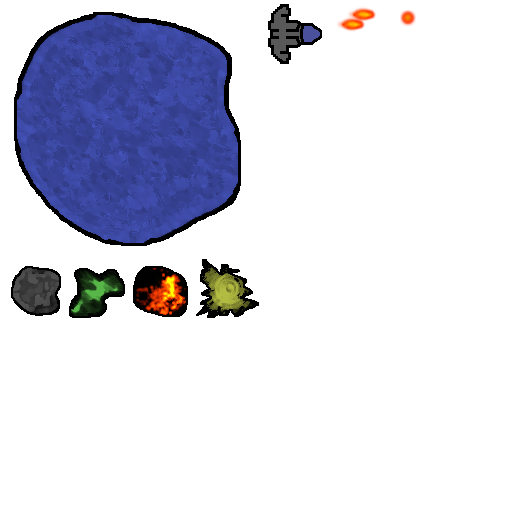
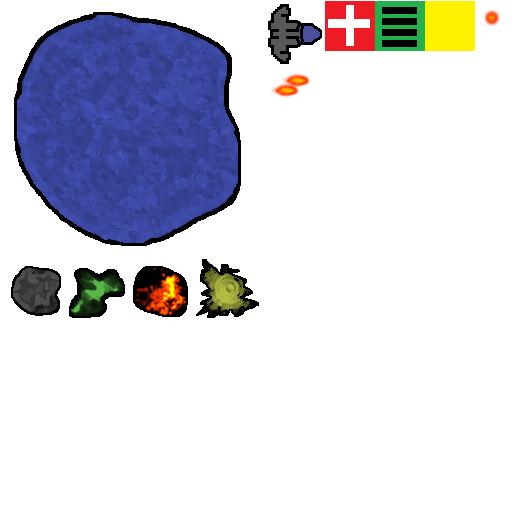
Задание в общем и целом выполнено. Из нововведений: новый контроллер, и несколько классов, определяющих бонусы. Шанс в тестировочных целях выставлен большой.

Changed region(s): [[0.625, 0.0, 1.0, 0.125], [0.5312, 0.125, 0.625, 0.1875]]

diff --git a/core/src/com/geekbrains/app/game/controllers/GameController.java b/core/src/com/geekbrains/app/game/controllers/GameController.java
@@ -1,16 +1,21 @@
-package com.geekbrains.app.game;
+package com.geekbrains.app.game.controllers;
 
 import com.badlogic.gdx.Gdx;
 import com.badlogic.gdx.Input;
 import com.badlogic.gdx.math.MathUtils;
 import com.badlogic.gdx.math.Vector2;
 import com.geekbrains.app.GameOptions;
+import com.geekbrains.app.game.Asteroid;
+import com.geekbrains.app.game.Background;
+import com.geekbrains.app.game.Bullet;
+import com.geekbrains.app.game.Hero;
 
 public class GameController {
     private Background background;
     private AsteroidController asteroidController;
     private BulletController bulletController;
     private ParticleController particleController;
+    private BonusController bonusController;
     private Hero hero;
     private Vector2 tmpVec;
 
@@ -20,6 +25,10 @@ public class GameController {
 
     public BulletController getBulletController() {
         return bulletController;
+    }
+
+    public BonusController getBonusController() {
+        return bonusController;
     }
 
     public Background getBackground() {
@@ -40,11 +49,13 @@ public class GameController {
         this.asteroidController = new AsteroidController(this);
         this.bulletController = new BulletController(this);
         particleController = new ParticleController();
+        this.bonusController = new BonusController(this);
         this.tmpVec = new Vector2(0.0f, 0.0f);
         for (int i = 0; i < GameOptions.COUNT_ASTEROIDS; i++) {
             this.asteroidController.setup(MathUtils.random(0, GameOptions.SCREEN_WIDTH), MathUtils.random(0, GameOptions.SCREEN_HEIGHT),
                     MathUtils.random(-150.0f, 150.0f), MathUtils.random(-150.0f, 150.0f), 1.0f);
         }
+
     }
 
     public void update(float dt) {
@@ -53,6 +64,7 @@ public class GameController {
         asteroidController.update(dt);
         bulletController.update(dt);
         particleController.update(dt);
+        bonusController.update(dt);
         checkCollisions();
 
         if (Gdx.input.isKeyJustPressed(Input.Keys.ESCAPE)) {

diff --git a/core/src/com/geekbrains/app/game/Hero.java b/core/src/com/geekbrains/app/game/Hero.java
@@ -11,6 +11,7 @@ import com.badlogic.gdx.math.Vector2;
 import com.badlogic.gdx.math.Vector3;
 import com.badlogic.gdx.utils.StringBuilder;
 import com.geekbrains.app.GameOptions;
+import com.geekbrains.app.game.controllers.GameController;
 import com.geekbrains.app.screen.utils.Assets;
 
 import java.util.ArrayList;
@@ -29,6 +30,22 @@ public class Hero {
     private int scoreView;
     private Circle hitArea;
     private Weapon currentWeapon;
+    //создана переменная для расчёта денег
+    private int money;
+
+    //добавляем возможность увеличить уровень хп аптечкой
+    public void setHp(int value) {
+        this.hp += value;
+    }
+
+    //добавляем сеттер и геттер для изменения количества money
+    public void setMoney(int value) {
+        this.money += value;
+    }
+
+    public int getMoney() {
+        return money;
+    }
 
     public float getAngle() {
         return angle;
@@ -84,6 +101,10 @@ public class Hero {
         );
     }
 
+    public Weapon getCurrentWeapon() {
+        return currentWeapon;
+    }
+
     public void render(SpriteBatch batch) {
         batch.draw(texture, position.x - 32, position.y - 32, 32, 32, 64, 64, 1, 1, angle);
     }
@@ -93,6 +114,7 @@ public class Hero {
         strBuilder.append("SCORE: ").append(scoreView).append("\n");
         strBuilder.append("HP: ").append(hp).append("\n");
         strBuilder.append("BULLETS: ").append(currentWeapon.getCurBullets()).append(" / ").append(currentWeapon.getMaxBullets()).append("\n");
+        strBuilder.append("MONEY: ").append(money);
         font.draw(batch, strBuilder, 20, 700);
     }
 

diff --git a/core/src/com/geekbrains/app/game/bonus/AbstractBonus.java b/core/src/com/geekbrains/app/game/bonus/AbstractBonus.java
@@ -1,0 +1,51 @@
+package com.geekbrains.app.game.bonus;
+
+import com.badlogic.gdx.graphics.g2d.SpriteBatch;
+import com.badlogic.gdx.graphics.g2d.TextureRegion;
+import com.badlogic.gdx.math.Circle;
+import com.badlogic.gdx.math.Vector2;
+import com.geekbrains.app.GameOptions;
+import com.geekbrains.app.game.controllers.GameController;
+
+public abstract class AbstractBonus {
+    protected Vector2 position;
+    protected Circle bonusArea;
+    protected TextureRegion texture;
+    protected int bonus;
+    protected String nameBonus;
+    protected boolean active;
+    protected GameController gc;
+
+    abstract void getBonus();
+
+    public boolean isActive() {
+        return active;
+    }
+    public void getActiveChance(Vector2 positionAsteroid){
+        this.position = positionAsteroid;
+        this.active = true;
+    }
+
+    public void deActive(){
+        this.active = false;
+    }
+
+    public void render(SpriteBatch batch){
+        if (active)
+        batch.draw(texture, position.x - 24, position.y - 24, 24, 48);
+    }
+
+    public void update(float dt){
+        if (active){
+            position.y += 10 * dt;
+            if (position.y > GameOptions.SCREEN_WIDTH) {
+                deActive();
+            }
+            bonusArea.setPosition(position);
+            if (bonusArea.overlaps(gc.getHero().getHitArea())){
+                getBonus();
+                deActive();
+            }
+        }
+    }
+}

diff --git a/core/src/com/geekbrains/app/game/controllers/BonusController.java b/core/src/com/geekbrains/app/game/controllers/BonusController.java
@@ -1,0 +1,43 @@
+package com.geekbrains.app.game.controllers;
+
+import com.badlogic.gdx.graphics.g2d.SpriteBatch;
+import com.badlogic.gdx.math.MathUtils;
+import com.badlogic.gdx.math.Vector2;
+import com.geekbrains.app.game.bonus.AbstractBonus;
+import com.geekbrains.app.game.bonus.ChestBonus;
+import com.geekbrains.app.game.bonus.GunsBonus;
+import com.geekbrains.app.game.bonus.MoneyBonus;
+
+import java.util.ArrayList;
+import java.util.List;
+
+public class BonusController {
+    private List<AbstractBonus> bonusList = new ArrayList<>();
+    private MoneyBonus money;
+    private ChestBonus chest;
+    private GunsBonus guns;
+    private int localValue;
+
+    BonusController(GameController gc){
+        bonusList.add(new MoneyBonus(gc));
+        bonusList.add(new ChestBonus(gc));
+        bonusList.add(new GunsBonus(gc));
+        this.localValue = 0;
+    }
+
+    public void getChance(Vector2 positionAsteroid){
+        localValue = MathUtils.random(3);
+        bonusList.get(localValue).getActiveChance(positionAsteroid);
+    }
+
+    public void render(SpriteBatch batch){
+        for (int i = 0; i < bonusList.size(); i++) {
+            bonusList.get(i).render(batch);
+        }
+    }
+    public void update(float dt){
+        for (int i = 0; i < bonusList.size(); i++) {
+            bonusList.get(i).update(dt);
+        }
+    }
+}

diff --git a/core/src/com/geekbrains/app/game/bonus/MoneyBonus.java b/core/src/com/geekbrains/app/game/bonus/MoneyBonus.java
@@ -1,0 +1,28 @@
+package com.geekbrains.app.game.bonus;
+
+import com.badlogic.gdx.graphics.g2d.SpriteBatch;
+import com.badlogic.gdx.math.Circle;
+import com.badlogic.gdx.math.Vector2;
+import com.geekbrains.app.GameOptions;
+import com.geekbrains.app.game.controllers.GameController;
+import com.geekbrains.app.screen.utils.Assets;
+
+public class MoneyBonus extends AbstractBonus {
+
+    public MoneyBonus(GameController gc) {
+        this.position = new Vector2(0, 0);
+        this.texture = Assets.getInstance().getAtlas().findRegion("money");
+        this.bonusArea = new Circle(position, 24);
+        this.nameBonus = "money";
+        this.active = false;
+        this.gc = gc;
+        this.bonus = GameOptions.BONUS_VALUE;
+    }
+
+    @Override
+    void getBonus() {
+        gc.getHero().setMoney(bonus);
+    }
+
+
+}

diff --git a/core/src/com/geekbrains/app/game/bonus/GunsBonus.java b/core/src/com/geekbrains/app/game/bonus/GunsBonus.java
@@ -1,0 +1,24 @@
+package com.geekbrains.app.game.bonus;
+
+import com.badlogic.gdx.math.Circle;
+import com.badlogic.gdx.math.Vector2;
+import com.geekbrains.app.GameOptions;
+import com.geekbrains.app.game.controllers.GameController;
+import com.geekbrains.app.screen.utils.Assets;
+
+public class GunsBonus extends AbstractBonus{
+    public GunsBonus(GameController gc) {
+        this.position = new Vector2(0, 0);
+        this.texture = Assets.getInstance().getAtlas().findRegion("guns");
+        this.bonusArea = new Circle(position, 24);
+        this.nameBonus = "guns";
+        this.active = false;
+        this.gc = gc;
+        this.bonus = GameOptions.BONUS_VALUE;
+    }
+
+    @Override
+    void getBonus() {
+        gc.getHero().getCurrentWeapon().setMaxBullets(bonus);
+    }
+}

diff --git a/core/src/com/geekbrains/app/game/bonus/ChestBonus.java b/core/src/com/geekbrains/app/game/bonus/ChestBonus.java
@@ -1,0 +1,24 @@
+package com.geekbrains.app.game.bonus;
+
+import com.badlogic.gdx.math.Circle;
+import com.badlogic.gdx.math.Vector2;
+import com.geekbrains.app.GameOptions;
+import com.geekbrains.app.game.controllers.GameController;
+import com.geekbrains.app.screen.utils.Assets;
+
+public class ChestBonus extends AbstractBonus{
+
+    public ChestBonus(GameController gc) {
+        this.position = new Vector2(0, 0);
+        this.texture = Assets.getInstance().getAtlas().findRegion("chest");
+        this.bonusArea = new Circle(position, 24);
+        this.nameBonus = "chest";
+        this.active = false;
+        this.gc = gc;
+        this.bonus = GameOptions.BONUS_VALUE;
+    }
+    @Override
+    void getBonus() {
+        gc.getHero().setHp(bonus);
+    }
+}

diff --git a/core/src/com/geekbrains/app/game/Asteroid.java b/core/src/com/geekbrains/app/game/Asteroid.java
@@ -6,6 +6,7 @@ import com.badlogic.gdx.math.Circle;
 import com.badlogic.gdx.math.MathUtils;
 import com.badlogic.gdx.math.Vector2;
 import com.geekbrains.app.GameOptions;
+import com.geekbrains.app.game.controllers.GameController;
 import com.geekbrains.app.game.helpers.Poolable;
 import com.geekbrains.app.screen.utils.Assets;
 
@@ -48,6 +49,10 @@ public class Asteroid implements Poolable{
 
     public void deactivate() {
         active = false;
+        int localValue = MathUtils.random(500);
+        if (localValue > 50){
+            gc.getBonusController().getChance(position);
+        }
     }
 
     public Vector2 getVelocity() {

diff --git a/core/src/com/geekbrains/app/game/WorldRenderer.java b/core/src/com/geekbrains/app/game/WorldRenderer.java
@@ -4,7 +4,7 @@ import com.badlogic.gdx.Gdx;
 import com.badlogic.gdx.graphics.GL20;
 import com.badlogic.gdx.graphics.g2d.BitmapFont;
 import com.badlogic.gdx.graphics.g2d.SpriteBatch;
-import com.badlogic.gdx.utils.StringBuilder;
+import com.geekbrains.app.game.controllers.GameController;
 import com.geekbrains.app.screen.utils.Assets;
 
 public class WorldRenderer {
@@ -28,6 +28,7 @@ public class WorldRenderer {
         gc.getBulletController().render(batch);
         gc.getParticleController().render(batch);
         gc.getHero().renderGUI(batch, font32);
+        gc.getBonusController().render(batch);
         batch.end();
     }
 }

diff --git a/core/src/com/geekbrains/app/game/Weapon.java b/core/src/com/geekbrains/app/game/Weapon.java
@@ -2,6 +2,7 @@ package com.geekbrains.app.game;
 
 import com.badlogic.gdx.math.MathUtils;
 import com.badlogic.gdx.math.Vector3;
+import com.geekbrains.app.game.controllers.GameController;
 
 public class Weapon {
 
@@ -23,6 +24,11 @@ public class Weapon {
 
     public int getMaxBullets() {
         return maxBullets;
+    }
+
+    //добавляем возможность увеличить боезапас
+    public void setMaxBullets(int value) {
+        this.maxBullets += value;
     }
 
     public int getCurBullets() {

diff --git a/core/src/com/geekbrains/app/game/controllers/ParticleController.java b/core/src/com/geekbrains/app/game/controllers/ParticleController.java
@@ -1,9 +1,10 @@
-package com.geekbrains.app.game;
+package com.geekbrains.app.game.controllers;
 
 import com.badlogic.gdx.graphics.GL20;
 import com.badlogic.gdx.graphics.g2d.SpriteBatch;
 import com.badlogic.gdx.graphics.g2d.TextureRegion;
 import com.badlogic.gdx.math.MathUtils;
+import com.geekbrains.app.game.Particle;
 import com.geekbrains.app.game.helpers.ObjectPool;
 import com.geekbrains.app.screen.utils.Assets;
 

diff --git a/core/src/com/geekbrains/app/game/controllers/BulletController.java b/core/src/com/geekbrains/app/game/controllers/BulletController.java
@@ -1,7 +1,8 @@
-package com.geekbrains.app.game;
+package com.geekbrains.app.game.controllers;
 
 import com.badlogic.gdx.graphics.g2d.SpriteBatch;
 import com.badlogic.gdx.graphics.g2d.TextureRegion;
+import com.geekbrains.app.game.Bullet;
 import com.geekbrains.app.game.helpers.ObjectPool;
 import com.geekbrains.app.screen.utils.Assets;
 
